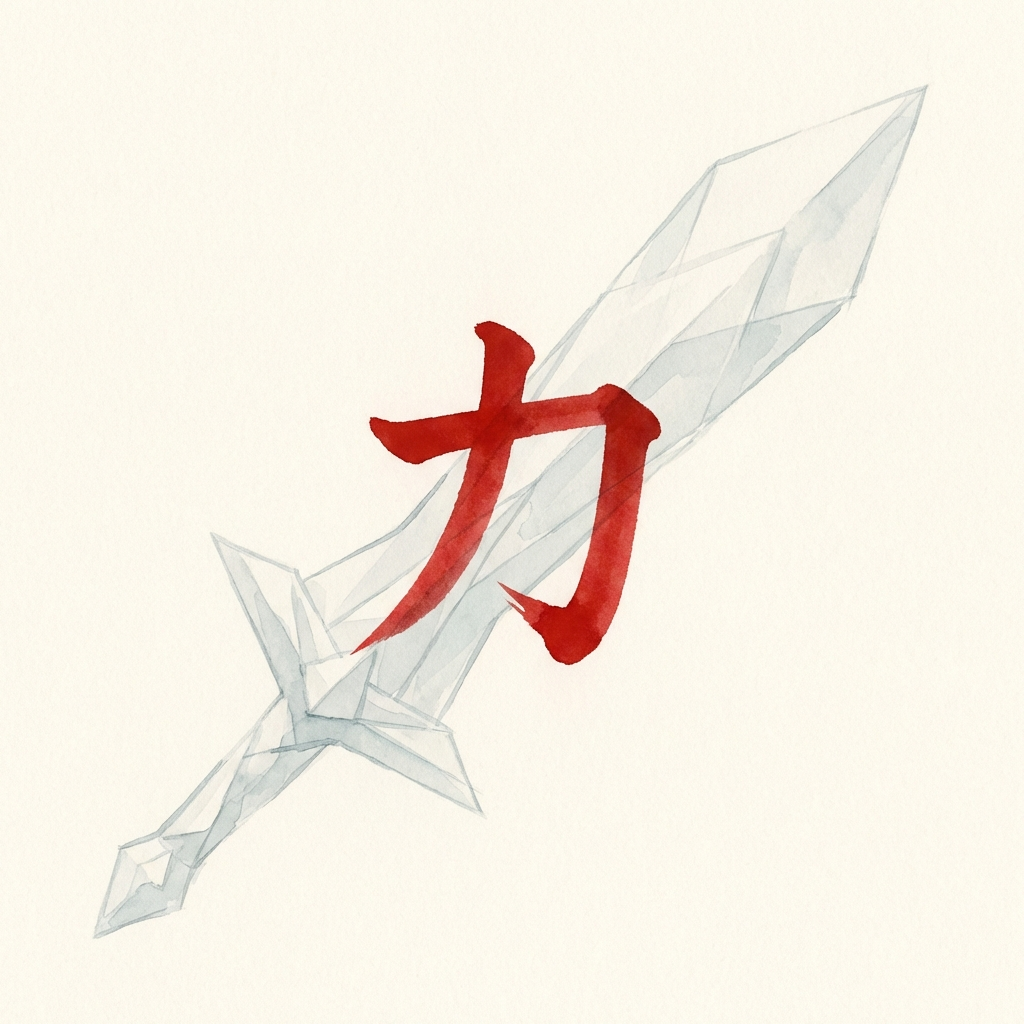
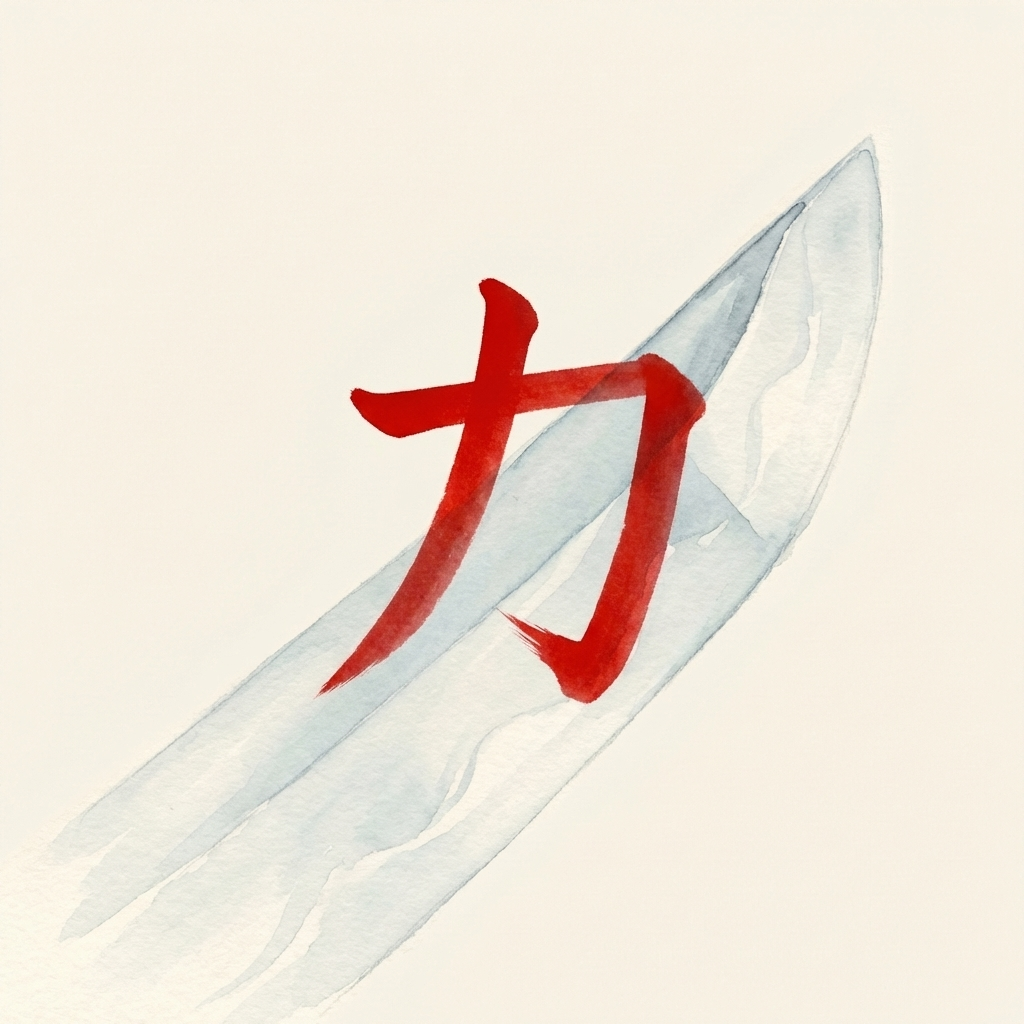
Update katakana stories to match images + fix カ ヌ images
Stories updated: ク→wing, ム→side view, ロ→boxy shape, ニ→two bars,
ミ→three bars, タ→arm holding tablet, カ→katana blade, ヌ→rope knot

diff --git a/src/App.jsx b/src/App.jsx
@@ -108,9 +108,9 @@ const M = {
 "ウ":["👒","Angular う","Connected angular version","The angular katakana version of hiragana う — same character straightened out with sharp corners."],
 "エ":["🛗","Elevator doors","Frame + where doors meet","Two horizontal bars with a vertical line between them — elevator doors about to slide open on the ground floor."],
 "オ":["🎤","Opera singer","Mouth shaped like O","An opera singer belting a high note — mouth wide open, one arm flung out dramatically to the side."],
-"カ":["🔪","Angular か","Same blade, sharper","The angular version of hiragana か with one stroke removed — a sharper, more dangerous blade."],
+"カ":["🔪","Katana blade","Sharp angular blade","A katana blade — the angular strokes form the sharp edge of a Japanese sword."],
 "キ":["🗝","Like き without bottom","Same key, less curve","Hiragana き with the bottom curve chopped off — the same key, but stripped down to straight lines."],
-"ク":["🐦","Cuckoo's tail","Tail feathers","If hiragana く is the cuckoo's beak, this is the tail — the single curved stroke fans out like tail feathers."],
+"ク":["🐦","Cuckoo's wing","Wing feathers","If hiragana く is the cuckoo's beak, this is the wing — the curved stroke sweeps out like a wing in flight."],
 "ケ":["🔠","Sideways K","Looks like letter K on its side","Turn your head and you'll see the letter K lying on its side — that's your ke right there."],
 "コ":["📐","Two corners","Two right angles form a road","A road with two sharp corners — follow the path and you'll make exactly two right-angle turns."],
 "サ":["🐎","Saddle","Strokes = saddle on horse","A saddle sitting on a horse's back — the vertical stroke is the pommel, the horizontal stroke is the seat."],
@@ -118,14 +118,14 @@ const M = {
 "ス":["⛷","Skiing person","Angled = skiing downhill","A person carving down a ski slope — the angled strokes capture that forward lean as they fly downhill."],
 "セ":["🗣","Angular せ","Like せ without top right part","The angular version of hiragana せ with the top-right portion stripped away — same sensei, sharper edges."],
 "ソ":["🍦","Soft serve ice cream","SO slim + one-eyed smiley","The two strokes of ソ form the cone of a soft-serve ice cream — the ice cream swirl sits on top, completing the picture."],
-"タ":["📱","Person holding a tablet","Gripping a tablet","A person gripping a tablet in both hands — the horizontal stroke is their arms, the vertical line is the screen."],
+"タ":["📱","Arm holding a tablet","Gripping a tablet","An arm reaching out to hold a tablet or phone — the strokes form the arm and device."],
 "チ":["🐔","Chicken","Looks nothing like a chicken!","A chicken with its beak wide open — squint hard and you might see the head and body in those strokes."],
 "ツ":["🐟","Tuna fish head","Like シ but different direction","A tuna fish head — similar to シ but the strokes face a different direction, like the fish is swimming the other way."],
 "テ":["📞","Telephone pole","Wires on a pole bent at angle","A telephone pole bent at an angle by the wind — the horizontal stroke is the crossbar with wires, the diagonal is the leaning pole."],
 "ト":["⛩","Temple side view","Vertical + short horizontal","The side view of a temple gate — one tall vertical pillar with a short horizontal beam jutting out."],
 "ナ":["🔪","Curved knife","Curved blade with handle","A curved knife — the horizontal stroke at the top is the handle, and the diagonal slash below is the blade."],
-"ニ":["2⃣","Like に without left part","Two straight lines","Hiragana に with the left stroke removed — just two clean horizontal lines, easy as counting to two."],
-"ヌ":["🪢","Noose","Loop + cross","A noose dangling from a rope — the crossing strokes form the knot, and the loop hangs ominously below."],
+"ニ":["2⃣","Two lines = ni = 2","Two straight lines","Two horizontal bars stacked — like the number 2, easy as counting ni."],
+"ヌ":["🪢","Noose","Loop + cross","A noose dangling from a rope — the crossing strokes form the knot, and the loop hangs below."],
 "ネ":["🪺","Nest in a tree","Twigs woven in branches","A bird's nest tucked into the fork of a tree — twigs woven together between the branches."],
 "ノ":["🚫","No sign slash","Single diagonal stroke","The diagonal slash from a no-entry sign — just the line itself, without the circle around it."],
 "ハ":["🏠","Roof of a house","Two strokes spread like a roof","Two strokes spreading outward like the roof of a house — the peak is at the top, eaves angling down on each side."],
@@ -134,8 +134,8 @@ const M = {
 "ヘ":["⛰","Same as へ — identical!","Same in both scripts","Exactly the same as hiragana へ — one angled line pointing up, identical in both scripts."],
 "ホ":["✝","Shining holy cross","Cross + rays of light","A holy cross with rays of light shining from it — the vertical and horizontal strokes form the cross, the extra strokes are beams of radiance."],
 "マ":["🦈","Manta ray","Wing sweeping through water","A manta ray gliding through the ocean — the horizontal stroke is one massive wing, the curve beneath is the body sweeping through water."],
-"ミ":["3⃣","Three lines — middle","Three horizontal strokes","Three horizontal lines stacked up — look for the line in the middle and you've found mi."],
-"ム":["🫎","Moose antlers","Angular antler shape","A pair of moose antlers viewed from the front — the angular strokes branch upward like a bull moose's impressive rack."],
+"ミ":["3⃣","Three bars = mi = 3","Three horizontal strokes","Three horizontal bars stacked up — three bars, three sounds, mi."],
+"ム":["🫎","Moose antlers","Angular antler shape","A moose's antler viewed from the side — the angular strokes branch upward like the pointed tips of an antler."],
 "メ":["💌","Mail / male","X = back of envelope","Draw a rectangle around it and you get the back of a mail envelope — the X marks where the flap folds shut."],
 "モ":["⛵","Like も","Third stroke doesn't intersect","Just like hiragana も but the third stroke floats free instead of cutting through the first — same sailboat, slightly different rigging."],
 "ヤ":["🐐","Angular や","More angular, one less stroke","The angular version of hiragana や with one stroke removed — sharper, more geometric, but the same shape at heart."],
@@ -145,7 +145,7 @@ const M = {
 "リ":["🏞","Like り without curves","Straight flowing strokes","Hiragana り with the honey-like curves straightened out — the same river, but flowing in clean straight lines."],
 "ル":["🌳","Tree roots","Two strokes = roots","The roots of a tree splitting into the ground — two strokes diverging downward, digging deep into the earth."],
 "レ":["🪒","Razor blade","Curve = blade edge","A razor blade standing on its edge — one sharp vertical stroke with a curve at the base, ready to cut."],
-"ロ":["🤖","Robot's mouth","Rectangle = mouth","A robot's mouth — a perfect rectangle, mechanical and rigid, ready to speak in monotone."],
+"ロ":["🤖","Robot's mouth","Rectangle = mouth","A boxy mechanical shape — a perfect rectangle like a robot's rigid mouth or a metal box."],
 "ワ":["🍷","Wine glass","Angular curve = glass","A wine glass seen from the side — the angular curve is the bowl of the glass, tapering down to the stem."],
 "ヲ":["🔥","World Olympic torch","Wine glass + extra stroke","The Olympic torch held high — like ワ (wine glass) but with an extra stroke on top for the flame reaching skyward."],
 "ン":["🛸","Spacecraft entering atmosphere","ン wider, ソ slimmer","A spacecraft streaking into Earth's atmosphere — wider and flatter than ソ, like a capsule heating up on re-entry."],
